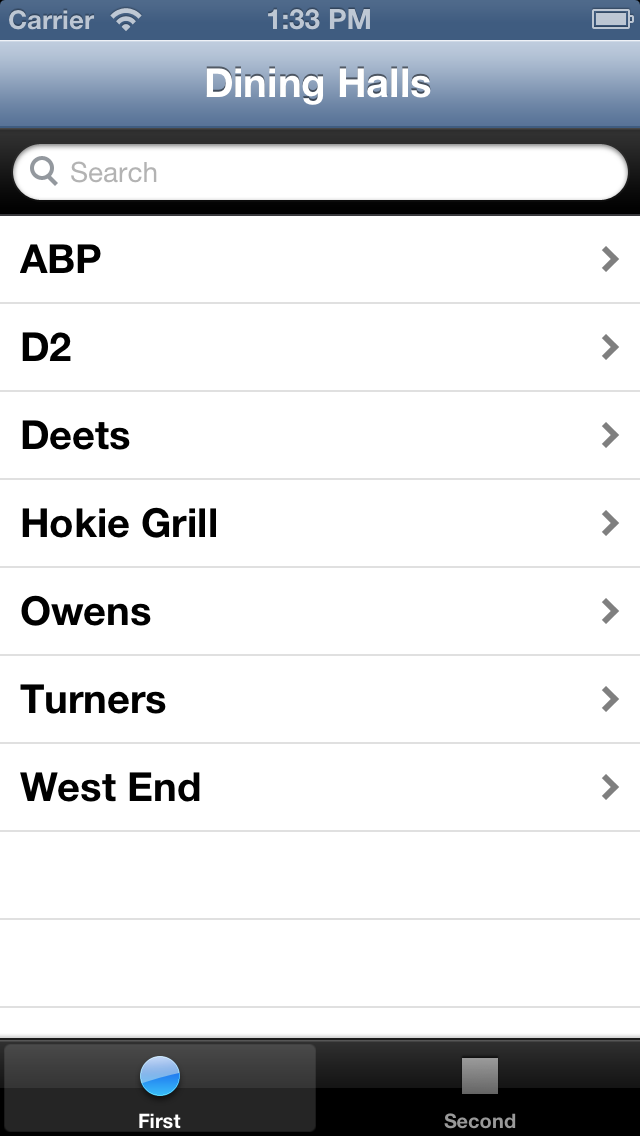
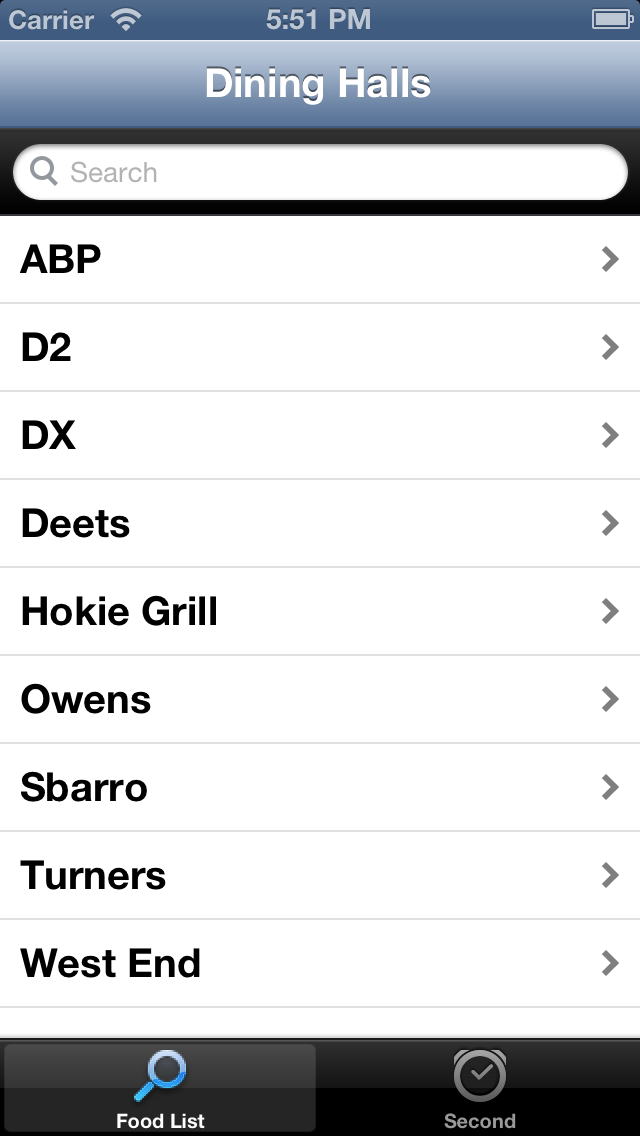
Updated the graphics

diff --git a/VTNutrition/VTNFirstViewController.m b/VTNutrition/VTNFirstViewController.m
@@ -24,8 +24,8 @@
 {
     self = [super initWithNibName:nibNameOrNil bundle:nibBundleOrNil];
     if (self) {
-        self.title = NSLocalizedString(@"First", @"First");
-        self.tabBarItem.image = [UIImage imageNamed:@"first"];
+        self.title = NSLocalizedString(@"Food List", @"Food List");
+        self.tabBarItem.image = [UIImage imageNamed:@"magnifying_glass"];
     }
     return self;
 }

diff --git a/VTNutrition/VTNSecondViewController.m b/VTNutrition/VTNSecondViewController.m
@@ -34,7 +34,7 @@
     self = [super initWithNibName:nibNameOrNil bundle:nibBundleOrNil];
     if (self) {
         self.title = NSLocalizedString(@"Second", @"Second");
-        self.tabBarItem.image = [UIImage imageNamed:@"second"];
+        self.tabBarItem.image = [UIImage imageNamed:@"alarm"];
     }
     return self;
 }
